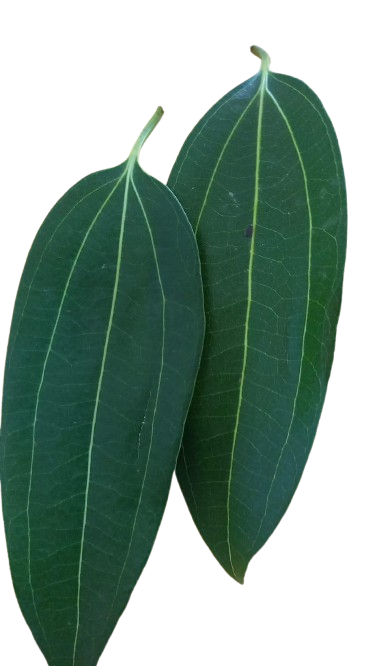
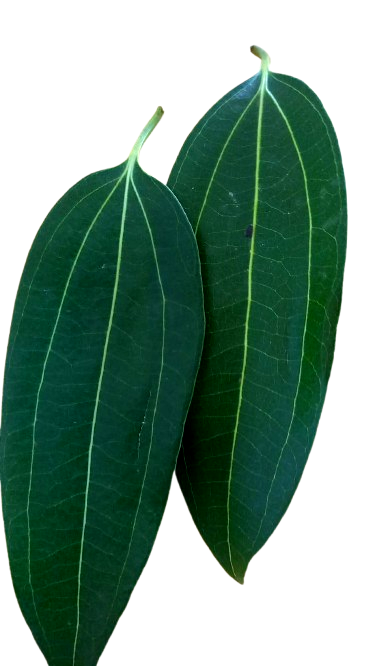
adjusted colour for all photos

diff --git a/scss/styles.scss b/scss/styles.scss
@@ -38,7 +38,7 @@ $body-color: #333;
 $body-bg: #fff;
 $border-radius: .4rem;
 $success: #7952b3;
-$primary: #189b18;
+$primary: #117511;
 $secondary: #c98e21;
 //$info 
 // Required
@@ -82,7 +82,7 @@ $secondary: #c98e21;
 // @import "bootstrap/scss/placeholders";
 
 // Helpers
-// @import "bootstrap/scss/helpers";
+@import "bootstrap/scss/helpers";
 
 // Utilities
 @import "bootstrap/scss/utilities/api";
@@ -92,4 +92,5 @@ $secondary: #c98e21;
 // Custom styles
 //
 
-@import "icon-list";
+@import "bg-radius-gradient";
+@import "feature-icon"
